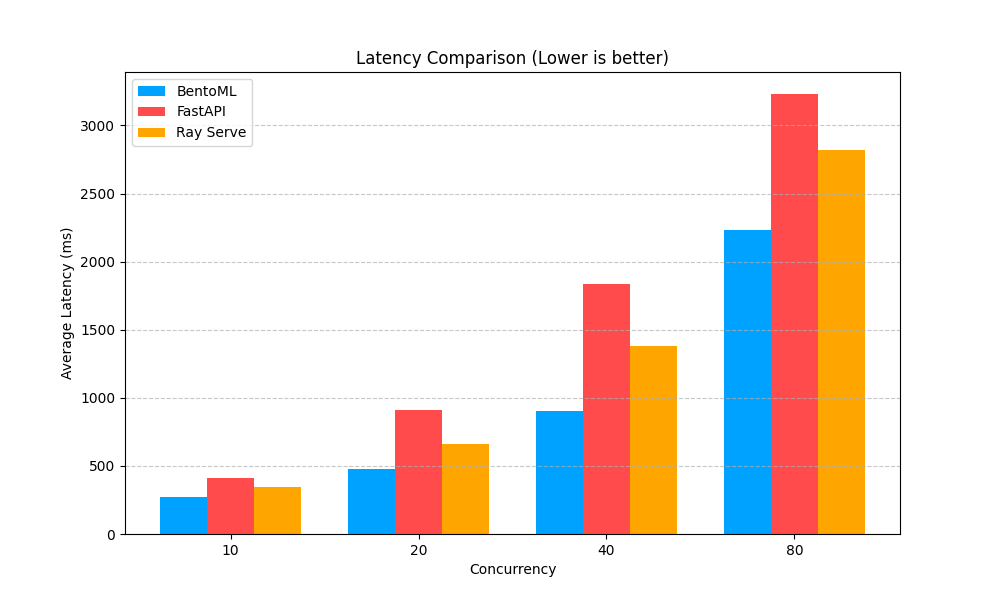
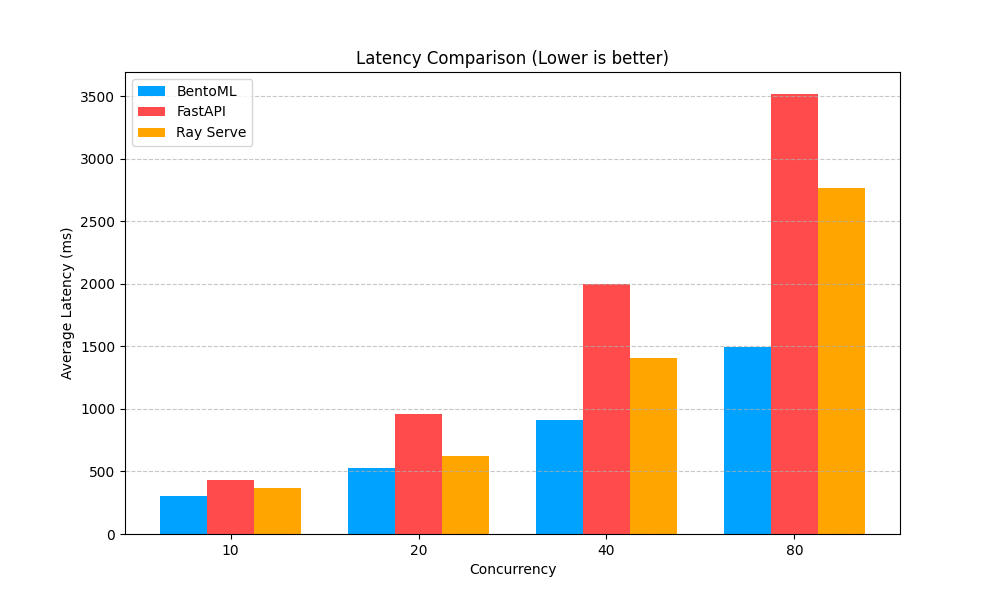
add service implementation md

diff --git a/rayserve/app.py b/rayserve/app.py
@@ -74,6 +74,14 @@ fastapi_app = FastAPI(
     version="1.0.0",
 )
 
+def _count_images(requests: list[list[bytes]]) -> int:
+    """Calculate the total number of images in a batch of requests.
+    
+    Used by Ray Serve to ensure the 'max_batch_size' limit is applied to the
+    total number of images (tensor batch size), not just the number of HTTP requests.
+    """
+    return sum(len(req) for req in requests)
+
 
 @serve.deployment(
     num_replicas=NUM_REPLICAS,
@@ -100,7 +108,7 @@ class MobileNetV2Deployment:
     async def health(self) -> HealthResponse:
         return HealthResponse(status="healthy", service="rayserve-mobilenetv2")
 
-    @serve.batch(max_batch_size=8, batch_wait_timeout_s=0.01)
+    @serve.batch(max_batch_size=8, batch_wait_timeout_s=0.01, batch_size_fn=_count_images)
     async def _batched_predict(self, requests: list[list[bytes]]) -> list[list[PredictResponse]]:
         """Batch incoming requests to share one model.predict call.
         

diff --git a/bentoml_service/service.py b/bentoml_service/service.py
@@ -55,7 +55,7 @@ class MobileNetV2Classifier:
         batchable=True,
         batch_dim=0,
         max_batch_size=8,
-        #max_latency_ms=500, default 60000
+        max_latency_ms=60000, # default 60000
     )
     def predict(self, files: list[Image.Image]) -> list[dict[str, t.Any]]:
         """Predict image class from a batch of images.

diff --git a/SERVICE_IMPLEMENTATION.md b/SERVICE_IMPLEMENTATION.md
@@ -1,0 +1,195 @@
+# Service Implementation Details
+
+This document provides a detailed overview of the implementation of the three microservices benchmarked in this project: BentoML, FastAPI, and Ray Serve. All services deploy the same MobileNetV2 image classification model to ensure a fair comparison.
+
+## Shared Components
+
+All services share the following core logic and resources:
+
+*   **Model:** MobileNetV2 (TensorFlow/Keras application), pre-trained on ImageNet.
+*   **Input Processing:**
+    *   Images are resized to `224x224` pixels.
+    *   Pixel values are normalized to the `[0, 1]` range (divided by 255.0).
+    *   Input is converted to a batch tensor (even for single images).
+*   **Output Format:** JSON response containing the top 5 predictions, each with:
+    *   `class_id`: Integer ID of the class.
+    *   `class_name`: Human-readable label (from `imagenet_labels.txt`).
+    *   `confidence`: Probability score (float).
+*   **Dependencies:** `tensorflow`, `pillow`, `numpy`.
+
+---
+
+## 1. BentoML Service
+
+**Location:** `bentoml_service/service.py`
+
+BentoML is a framework designed specifically for serving machine learning models. It abstracts away much of the boilerplate associated with API server setup and provides built-in support for adaptive batching.
+
+### Key Implementation Details
+
+*   **Framework:** `bentoml` (wrapping the class-based service).
+*   **Service Definition:**
+    *   The service is defined using the `@bentoml.service` decorator on the `MobileNetV2Classifier` class.
+    *   Resources are explicitly defined: `resources={"cpu": "1", "memory": "2Gi"}`.
+    *   Traffic configuration sets a timeout: `traffic={"timeout": 60}`.
+*   **Model Loading:**
+    *   The model is loaded in the `__init__` method using `tf.keras.models.load_model`.
+    *   It looks for the model file in the local directory or a shared `../model/` directory.
+*   **Request Handling (`predict` endpoint):**
+    *   Decorated with `@bentoml.api`.
+    *   **Adaptive Batching:** Enabled via parameters `batchable=True` and `max_batch_size=8`.
+    *   **Input Type:** Accepts `files: list[Image.Image]`. BentoML automatically handles image decoding before passing data to the function.
+    *   **Logic:**
+        1.  Iterates through the batch of images.
+        2.  Preprocesses each image (resize, normalize).
+        3.  Stacks them into a single NumPy array (`np.stack`).
+        4.  Runs inference (`self.model.predict`).
+        5.  Formats the output for each request in the batch.
+*   **Health Check:** A standard `health` endpoint returns a simple status dictionary.
+
+---
+
+## 2. FastAPI Service
+
+**Location:** `fastapi/main.py`
+
+FastAPI is a general-purpose, high-performance web framework for building APIs with Python. This implementation represents a "do-it-yourself" approach where the developer manages the server lifecycle and request processing manually.
+
+### Key Implementation Details
+
+*   **Framework:** `fastapi` + `uvicorn` (server).
+*   **Model Loading:**
+    *   Uses a `lifespan` async context manager.
+    *   The model is loaded into `app.state.model` when the application starts and cleared on shutdown.
+    *   This ensures the model is loaded only once and shared across requests.
+*   **Request Handling (`/predict` endpoint):**
+    *   Defined as an async route: `@app.post("/predict")`.
+    *   **Input:** Accepts a single file upload via `UploadFile`.
+    *   **Batching:** **Not implemented.** Requests are processed individually as they arrive.
+    *   **Logic:**
+        1.  Reads bytes from the uploaded file.
+        2.  Decodes and preprocesses the image using `PIL` and `numpy`.
+        3.  Runs inference on a single-item batch (`np.expand_dims`).
+        4.  Returns the top 5 predictions.
+*   **Health Check:** A `/health` endpoint is available for readiness probes.
+
+---
+
+## 3. Ray Serve Service
+
+**Location:** `rayserve/app.py`
+
+Ray Serve is a scalable model serving library built on Ray. It excels at composing complex inference pipelines and scaling across a cluster. This implementation uses Ray Serve's integration with FastAPI for ingress.
+
+### Key Implementation Details
+
+*   **Framework:** `ray.serve` interacting with a `FastAPI` app for ingress.
+*   **Deployment Configuration:**
+    *   Decorated with `@serve.deployment`.
+    *   Specifies `num_replicas=1` (configurable via env vars), `num_cpus`, and `memory`.
+    *   Decorated with `@serve.ingress(fastapi_app)` to route HTTP requests to the class methods.
+*   **Model Loading:**
+    *   Loaded in `__init__` using `tf.keras.models.load_model`.
+    *   Includes logic to suppress TensorFlow logs for cleaner Ray worker output.
+*   **Request Handling (`/predict` endpoint):**
+    *   The external API is defined using standard FastAPI decorators (e.g., `@fastapi_app.post("/predict")`).
+    *   Accepts a list of files: `files: list[UploadFile]`.
+    *   **Batched Inference:**
+        *   The actual inference logic resides in a separate internal method `_batched_predict`.
+        *   Decorated with `@serve.batch(max_batch_size=8, batch_wait_timeout_s=0.01)`.
+        *   **Mechanism:** Ray Serve automatically aggregates concurrent calls to `_batched_predict` from multiple requests into a single list argument.
+        *   **Logic:**
+            1.  Flattens the list of lists of images (from potentially multiple user requests).
+            2.  Preprocesses all images into a single large batch.
+            3.  Runs inference once (`self.model.predict`).
+            4.  Splits the results back out to match the original requests.
+*   **Health Check:** A `/health` endpoint is exposed via the FastAPI ingress.
+
+---
+
+## Service Processing Comparison
+
+This section details the differences in request handling and image processing implementation between the three services. While all services achieve the same goal (MobileNetV2 classification), their implementation details vary significantly.
+
+### 1. Input Handling & Request Structure
+
+The most distinct difference lies in how files are received and how the API signature is defined.
+
+| Feature | BentoML | FastAPI | Ray Serve |
+| :--- | :--- | :--- | :--- |
+| **API Argument** | `files` | `file` | `files` |
+| **Type Annotation** | `list[Image.Image]` | `UploadFile` | `list[UploadFile]` |
+| **Multi-file Support**| **Yes** (Native) | **No** (Single file only) | **Yes** (Manual loop) |
+| **Decoding** | **Implicit** (Framework) | **Explicit** (Manual `PIL.Image.open`) | **Explicit** (Manual `PIL.Image.open`) |
+
+*   **BentoML** abstracts raw bytes entirely. The handler receives ready-to-use `PIL.Image` objects.
+*   **FastAPI** requires manual handling of the file stream (`await file.read()`) and manual decoding. It is strictly limited to one file per request in the current implementation.
+*   **Ray Serve** also requires manual byte reading and decoding but loops over a list of uploaded files, supporting multiple images per request.
+
+**Note:** The load testing script (`scripts/locust/locustfile.py`) explicitly adapts to these differences by changing the form field name from `file` (FastAPI) to `files` (others) based on the target port.
+
+### 2. Image Preprocessing Logic
+
+All services implement the same mathematical transformation:
+1.  Convert to RGB.
+2.  Resize to `224x224`.
+3.  Normalize to `float32` in `[0, 1]`.
+
+However, the tensor construction differs slightly:
+
+#### BentoML
+*   **Approach:** Iterates input list, creates `(224, 224, 3)` arrays, appends to list.
+*   **Batching:** Uses `np.stack(list)` to create `(N, 224, 224, 3)`.
+
+#### Ray Serve
+*   **Approach:** Helper function `preprocess_image` returns `(1, 224, 224, 3)` (using `np.expand_dims`).
+*   **Batching:** Uses `np.vstack(list)` to create `(N, 224, 224, 3)`.
+*   **Reason:** This helper is used to ensure consistency with standard Keras input shapes and allows for potential reuse in single-item contexts.
+
+#### FastAPI
+*   **Approach:** Same helper as Ray Serve (`preprocess_image`), returning `(1, 224, 224, 3)`.
+*   **Batching:** No real batching. The single array is passed directly to `model.predict`.
+
+### 3. Batching Implementation
+
+| Service | Strategy | Details |
+| :--- | :--- | :--- |
+| **BentoML** | **Adaptive Batching** | Built-in to the framework (`batchable=True`). It aggregates requests *across* different HTTP connections into a single model call automatically. |
+| **Ray Serve** | **Adaptive Batching** | Explicitly defined via `@serve.batch`. Similar to BentoML, it aggregates concurrent calls to `_batched_predict`. |
+| **FastAPI** | **None** | Processes requests 1-to-1. Under high load, this will likely lead to lower throughput compared to the other two as it cannot exploit vectorization for concurrent requests. |
+
+### 4. Error Handling
+
+*   **BentoML:** relies mostly on framework-level error handling. Invalid image data might raise exceptions during framework decoding before reaching user code.
+*   **Ray Serve:** has explicit `try/except` blocks in `preprocess_image` and `_batched_predict` to catch invalid data and return `400 Bad Request`.
+*   **FastAPI:** raises `HTTPException(500)` if the model is not loaded, but assumes image data is valid (no explicit try/catch around `Image.open`).
+
+### Conclusion
+
+*   **BentoML** offers the cleanest implementation code by offloading decoding and batching to the framework.
+*   **Ray Serve** requires more boilerplate (manual decoding, explicit batching decorators) but offers granular control.
+*   **FastAPI** is the simplest "bare metal" implementation but lacks the critical adaptive batching feature for high-throughput serving, making it a baseline rather than an optimized competitor in this specific configuration.
+
+---
+
+## Batching Optimization & Configuration
+
+The two batching-enabled services use fundamentally different configuration paradigms, which significantly impact performance characteristics under varying loads:
+
+### Ray Serve: Explicit Timeout (`batch_wait_timeout_s`)
+Ray Serve uses a deterministic "wait and see" approach.
+*   **Parameter:** `batch_wait_timeout_s=0.01` (10ms)
+*   **Mechanism:** When a request arrives, the server waits *strictly* up to 10ms for additional requests to fill the batch (up to `max_batch_size`). If the batch fills sooner, it executes immediately.
+*   **Optimization:** This value is a manual trade-off.
+    *   **Too Low:** High overhead as batches are processed partially filled (low throughput).
+    *   **Too High:** Increased latency for every request, even if the batch never fills.
+*   **Helper:** We also use a `batch_size_fn` to ensure the `max_batch_size` limit applies to the total number of images (tensor size) rather than just the number of HTTP requests.
+
+### BentoML: SLO-based Adaptive Batching (`max_latency_ms`)
+BentoML uses an "Adaptive Batching" algorithm driven by a Service Level Objective (SLO).
+*   **Parameter:** `max_latency_ms=60000` (60 seconds)
+*   **Mechanism:** This high value effectively unconstrains the adaptive batching scheduler's latency budget.
+*   **Optimization Strategy (Greedy Execution):** 
+    *   For lightweight models like MobileNetV2, the compute time is often shorter than the time spent waiting for a batch to fill. 
+    *   By setting a very loose SLO, we allow BentoML to behave "greedily"—it processes whatever requests are currently available in the queue without forcing an artificial wait period. 
+    *   Benchmark data shows this yields the **best overall balance of latency and throughput** for this specific model, as it avoids the "idle wait" penalty while still allowing for natural batching during high-concurrency bursts.

diff --git a/reports/generic/loadtest_report.md b/reports/generic/loadtest_report.md
@@ -1,21 +1,21 @@
 # 📊 Benchmark Results: BentoML vs FastAPI vs Ray Serve
 
-**Run Date:** 2026-01-20 12:57:05
+**Run Date:** 2026-01-20 18:36:50
 - **Duration per level:** s
 - **Concurrency levels:** 
 
 ## 📈 Throughput Comparison (req/s)
 | Concurrency | BentoML | FastAPI | Ray Serve | Winner |
-| 10 | 21.40 | 17.30 | 18.30 | **BentoML** |
-| 20 | 24.80 | 17.90 | 22.30 | **BentoML** |
-| 40 | 24.80 | 17.50 | 23.10 | **BentoML** |
-| 80 | 22.00 | 16.50 | 20.20 | **BentoML** |
+| 10 | 18.50 | 16.00 | 16.50 | **BentoML** |
+| 20 | 22.20 | 16.90 | 23.30 | **RayServe** |
+| 40 | 24.10 | 15.90 | 22.30 | **BentoML** |
+| 80 | 22.20 | 15.30 | 20.30 | **BentoML** |
 
 ## ⏱ Latency Comparison (Average ms)
 | Concurrency | BentoML | FastAPI | Ray Serve | Winner |
-| 10 | 274.42 | 412.33 | 345.70 | **BentoML** |
-| 20 | 478.11 | 907.77 | 657.73 | **BentoML** |
-| 40 | 902.79 | 1832.47 | 1378.87 | **BentoML** |
-| 80 | 2234.24 | 3231.18 | 2817.41 | **BentoML** |
+| 10 | 302.06 | 428.71 | 364.78 | **BentoML** |
+| 20 | 529.52 | 957.79 | 623.16 | **BentoML** |
+| 40 | 914.42 | 1999.16 | 1406.98 | **BentoML** |
+| 80 | 1494.69 | 3518.99 | 2763.38 | **BentoML** |
 
 *Generated by Automated Benchmark Suite*
